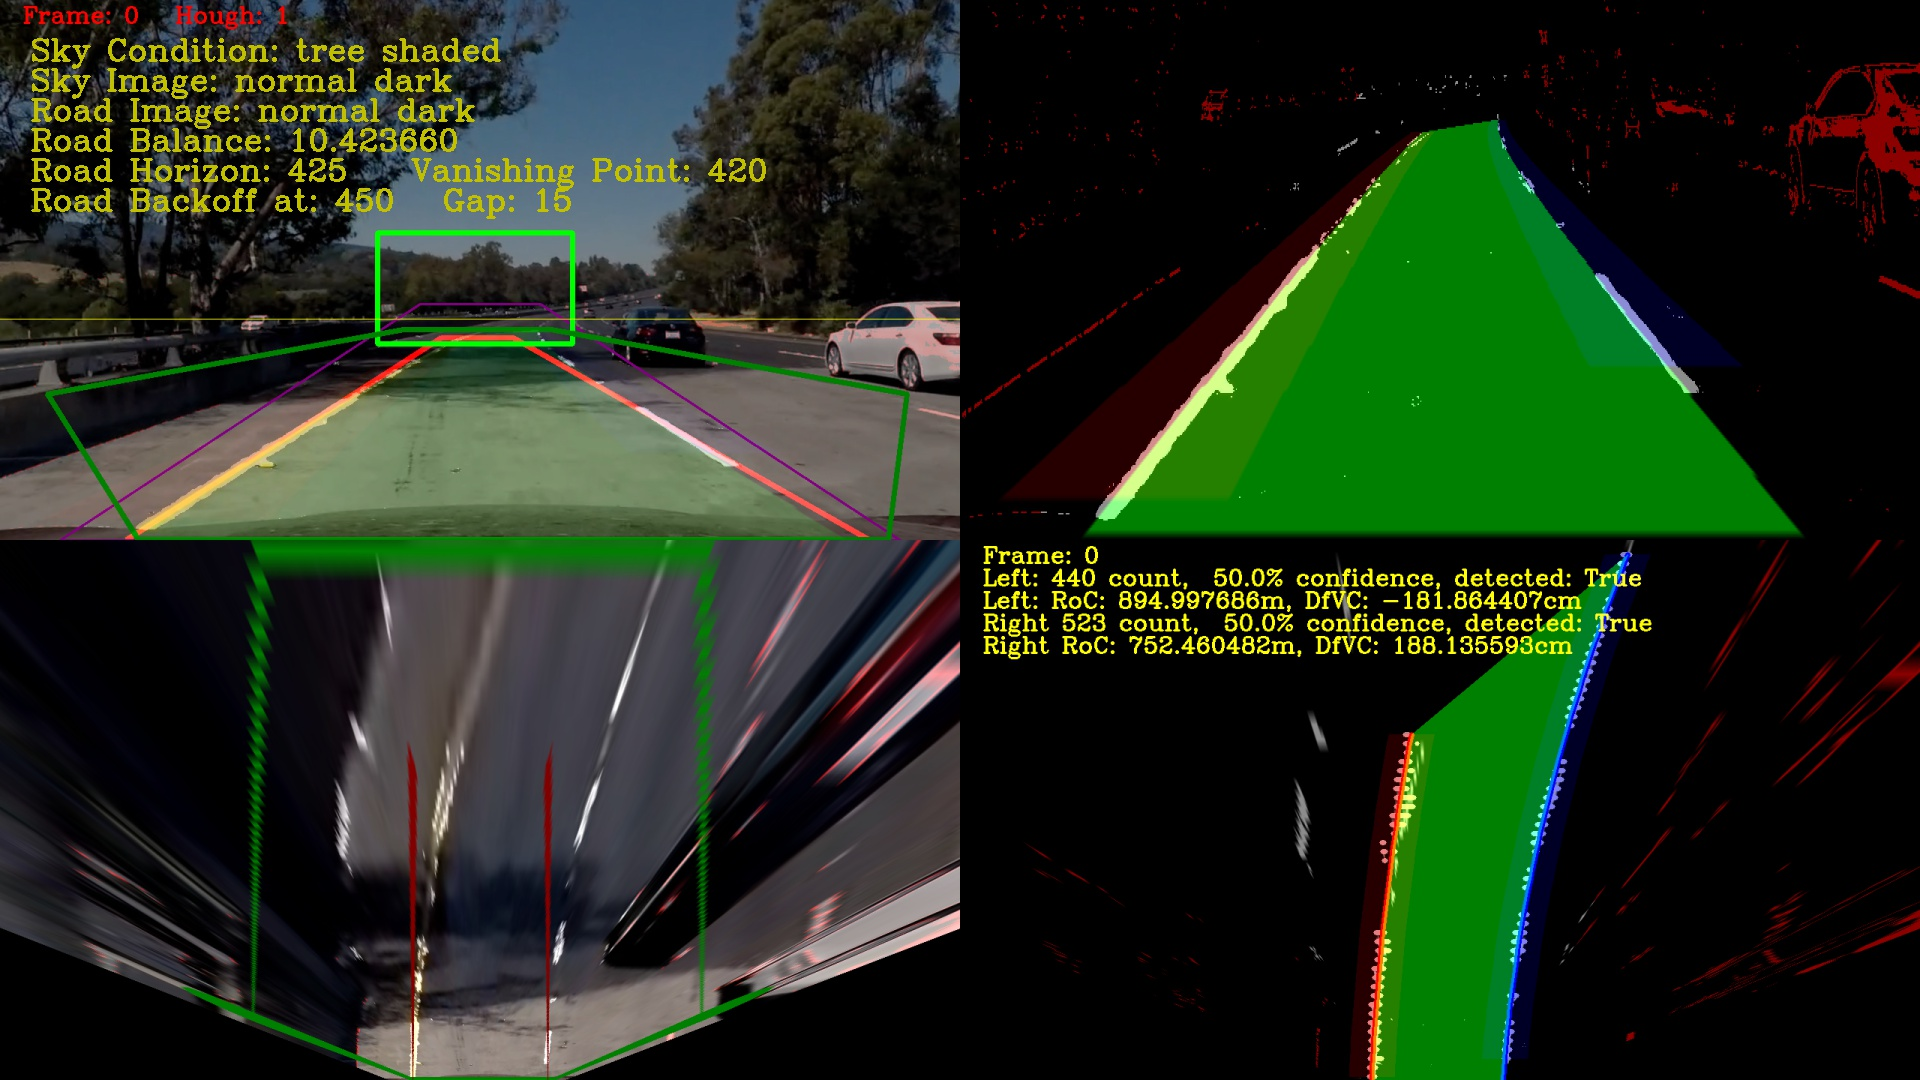
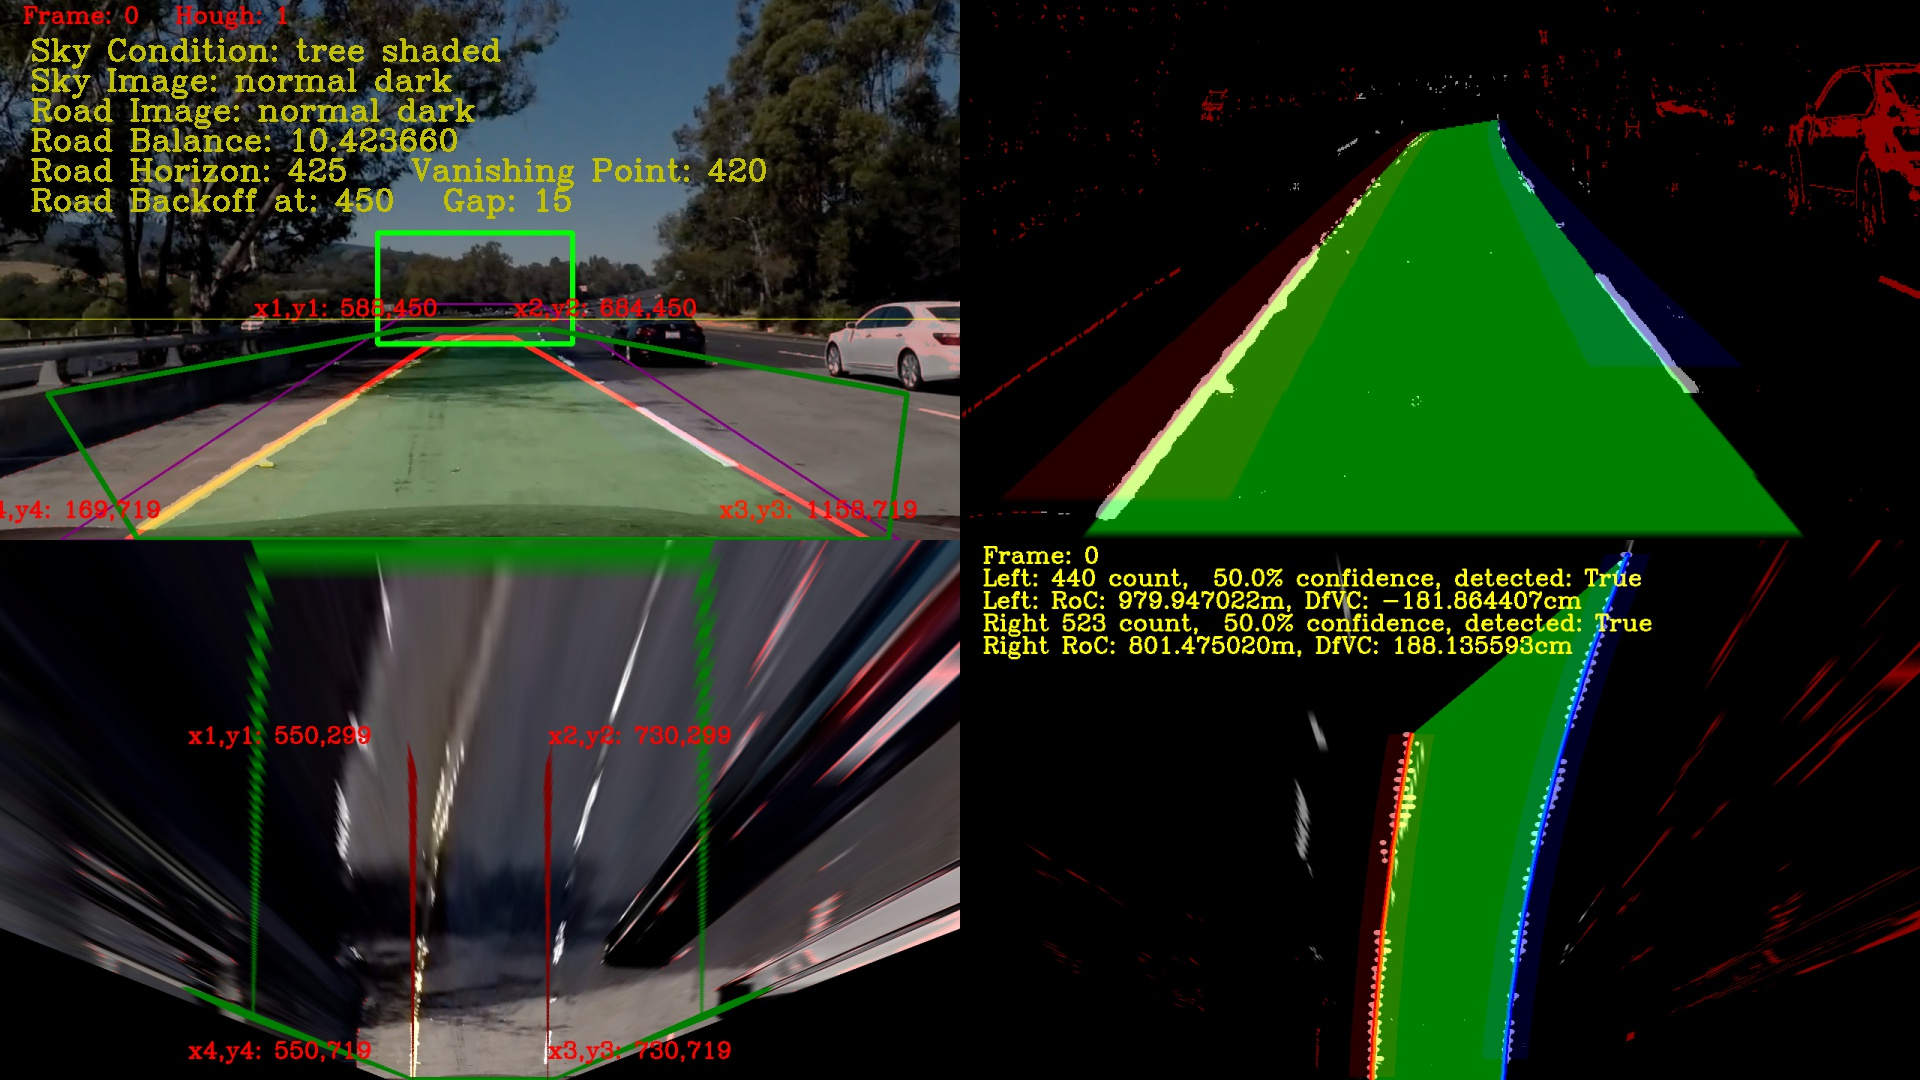
Update software pipeline diagnostic 2 with print out of source and destination points

diff --git a/README.md b/README.md
@@ -581,12 +581,12 @@ python P4pipeline.py --diag=2 <inputfile> <outputfile>
 The following sample run:
 
 ```
-python P4pipeline.py --diag=2 test_images/test1.jpg output_images/test1wsrc.jpg
+python P4pipeline.py --diag=2 test_images/test5.jpg output_images/test5diag2.jpg
 ```
 
 Produces this output:
 
-![Test1 Diag 2 Output](./output_images/test1wsrc.jpg)
+![Test1 Diag 2 Output](./output_images/test5diag2.jpg)
 
 To understand perspective images, you have to understand what is the **vanishing point**.  The **vanishing point** is formed by where the two estimated red lane lines meet with the yellow horizon line in the perspective image above in the upper-left panel.  It is important to realize that when we did the transform, we effectively stretched the pixels near the **vanishing point** to fit the top of our new planar 'birds-eye' view, while at the same time compressed the pixels near the bottom of our perspective image.  To understand this stretching effect better, we drew a dark green hexagon in the perspective image, and then projected it onto the planar 'birds-eye' view in the lower-left panel.  Notice how the bottom of the hexagon is now much smaller in the birds-eye view than in the perspective image?  What about the top of the hexagon?  The sides of the two longer sides of the hexagon are now parallel in the 'birds-eye' view.  What kind of stretching do you think are involved?  Also, notice how far to the top that the concrete bridge ends in the perspective image, but it seem quite short in comparison in the planar birds-eye view?  What's happening there?
 
